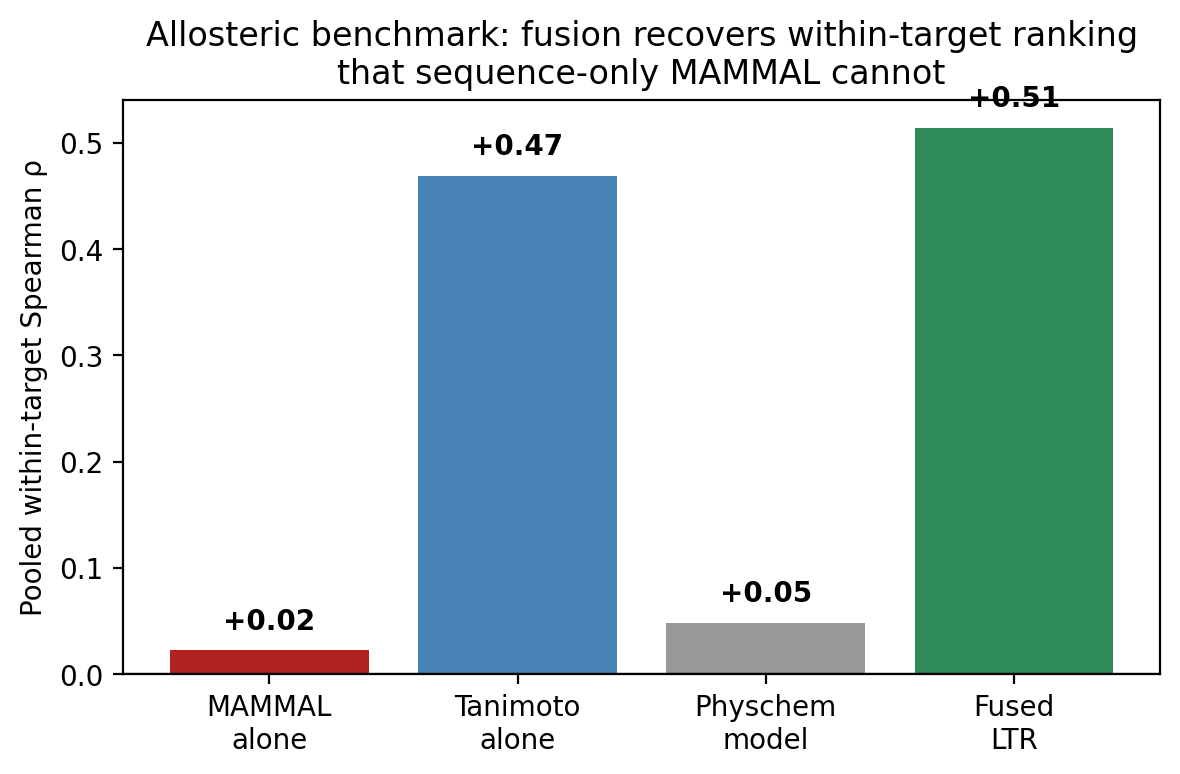
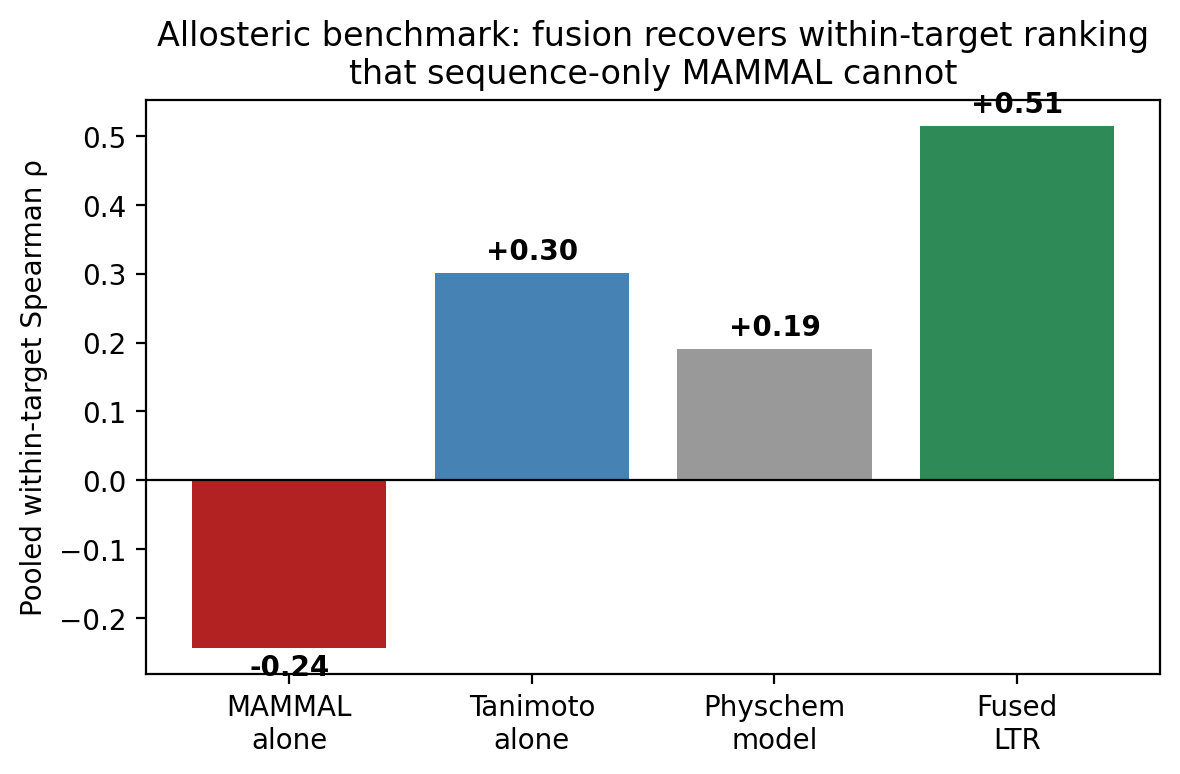
Regenerate allosteric_ltr_v1.md on current code: MAMMAL-alone is -0.244, not +0.022, and one per-target correlation was made of row order
The report was generated 2026-05-30 at 7a6c808. On 2026-06-06, 615bb1c replaced
_spearman's ordinal rank with mid-ranks, and said in its own commit message that
the fix "matters most here because the MAMMAL flatness finding makes the baseline
column tie-heavy." That is this report. It was never re-run. It has been
publishing the pre-fix numbers for ten weeks, and thesupplementadvisor.org has
been citing one of them.

Inputs are unchanged and cached; only the code moved. Re-running gives:

  n=21 binding-mode set        published    current
    MAMMAL pKd alone             +0.022     -0.244
    Tanimoto alone               +0.469     +0.302
    physicochemistry alone       +0.048     +0.191
    fused learn-to-rank          +0.514     +0.514

  leave-one-target-out
    MAMMAL pKd alone             -0.115     -0.108
    Tanimoto alone               +0.533     +0.765
    fused learn-to-rank          +0.613     +0.621

The fusion's own numbers barely move. Every baseline moves, because the baselines
are the tie-heavy columns, which is exactly what 615bb1c predicted.

WHERE +0.022 CAME FROM. Of the five targets, HRH3 has three ligands spanning
pChEMBL 8.10 to 8.40, and MAMMAL assigns all three the bit-identical pKd
6.779786110 -- std 0.000, which the report's own first table already printed.
An ordinal rank breaks that total tie by row order. The rows arrive pitolisant,
ciproxifan, thioperamide; the labels happen to run 8.30, 8.10, 8.40; the tie
[…]

Changed region(s): [[0.0305, 0.124, 0.9458, 0.9922], [0.122, 0.031, 0.9763, 0.155], [0.6102, 0.7442, 0.7017, 0.7752]]

diff --git a/scripts/78_allosteric_ltr.py b/scripts/78_allosteric_ltr.py
@@ -49,6 +49,37 @@ def load_chembl_training(chembl_path: Path, dti_path: Path,
     return ch[["compound_name", "target_uniprot", "smiles", "pact"]].reset_index(drop=True)
 
 
+_PRETTY = {"mammal_only": "MAMMAL alone", "tanimoto_only": "Tanimoto alone",
+           "physchem_only": "physicochemistry alone", "fused_ltr": "the fusion"}
+
+
+def _verdict_sentence(pooled: dict[str, float]) -> str:
+    """State what the arm measured, ranked, without deciding in advance who won.
+
+    The sentences this replaces asserted that the fusion beat the sequence-only
+    model, and did so whatever the run returned. When a baseline outranks the
+    fusion that is the finding, and it has to survive into the headline.
+    """
+    fused = pooled.get("fused_ltr", float("nan"))
+    mam = pooled.get("mammal_only", float("nan"))
+    rivals = {k: v for k, v in pooled.items()
+              if k not in ("fused_ltr",) and np.isfinite(v)}
+    parts = [f"the fused head reaches ρ = {fused:+.3f} against MAMMAL-alone "
+             f"{mam:+.3f}"]
+    if not rivals:
+        return parts[0] + "."
+    top, top_rho = max(rivals.items(), key=lambda kv: kv[1])
+    if top == "mammal_only":
+        parts.append("no single-feature baseline outranks it")
+    elif top_rho > fused:
+        parts.append(f"but {_PRETTY.get(top, top)} outranks it at {top_rho:+.3f}, so "
+                     f"the fusion is not the best predictor measured here")
+    else:
+        parts.append(f"ahead of the strongest single feature "
+                     f"({_PRETTY.get(top, top)}, {top_rho:+.3f})")
+    return ", ".join(parts) + "."
+
+
 def render_report(res, bench: pd.DataFrame, report_path: Path, *, loto=None) -> None:
     L: list[str] = []
     L.append("# Allosteric Learn-to-Rank Head (Gap 4)")
@@ -92,12 +123,7 @@ def render_report(res, bench: pd.DataFrame, report_path: Path, *, loto=None) -> 
     for k in ("mammal_only", "tanimoto_only", "physchem_only", "fused_ltr"):
         L.append(f"| {labels[k]} | {res.pooled_rho.get(k, float('nan')):+.3f} |")
     L.append("")
-    best = max(res.pooled_rho.items(), key=lambda kv: (kv[1] if np.isfinite(kv[1]) else -9))
-    L.append(f"**Headline**: the fused head reaches ρ = "
-             f"{res.pooled_rho.get('fused_ltr', float('nan')):+.3f} vs MAMMAL-alone "
-             f"{res.pooled_rho.get('mammal_only', float('nan')):+.3f} — the fusion "
-             f"recovers a within-target ranking the sequence-only model cannot. "
-             f"(Best overall: {best[0]} at {best[1]:+.3f}.)")
+    L.append(f"**Headline**: {_verdict_sentence(res.pooled_rho)}")
     L.append("")
     L.append("### Per-target ρ (fused head)")
     L.append("")
@@ -108,7 +134,12 @@ def render_report(res, bench: pd.DataFrame, report_path: Path, *, loto=None) -> 
     for t in sorted(fused_pt):
         gene = bench[bench.target_uniprot == t]["target_gene"].iloc[0] \
             if (bench.target_uniprot == t).any() else t
-        L.append(f"| {gene} | {fused_pt[t]:+.3f} | {mam_pt.get(t, float('nan')):+.3f} |")
+        mam = mam_pt.get(t, float("nan"))
+        # Undefined, not missing: every MAMMAL score in the group is identical, so
+        # there is no ranking to correlate. Reporting a number here would be
+        # reporting whichever order the rows happened to arrive in.
+        mam_s = f"{mam:+.3f}" if np.isfinite(mam) else "undefined (scores tied)"
+        L.append(f"| {gene} | {fused_pt[t]:+.3f} | {mam_s} |")
     L.append("")
     L.append("### Feature importance (fused head)")
     L.append("")
@@ -134,20 +165,22 @@ def render_report(res, bench: pd.DataFrame, report_path: Path, *, loto=None) -> 
         L.append(f"| Tanimoto-to-actives alone | {loto.pooled_rho['tanimoto_only']:+.3f} |")
         L.append(f"| **Fused learn-to-rank** | **{loto.pooled_rho['fused_ltr']:+.3f}** |")
         L.append("")
-        L.append(f"The conclusion holds at scale: MAMMAL-alone within-target ranking is "
-                 f"near-flat ({loto.pooled_rho['mammal_only']:+.2f}), and the fusion "
-                 f"recovers a substantially better ranking "
-                 f"({loto.pooled_rho['fused_ltr']:+.2f}) across {int(loto.feature_importance.get('n_folds', 0))} "
-                 f"independent held-out targets.")
+        L.append(f"At scale, across "
+                 f"{int(loto.feature_importance.get('n_folds', 0))} independent held-out "
+                 f"targets: {_verdict_sentence(loto.pooled_rho)}")
         L.append("")
     L.append("## Honest scope")
     L.append("")
     L.append("- Two complementary benchmarks: the cited **n=21 binding-mode** set "
-             "(allosteric vs orthosteric labels, 5 targets) and the **n=297 "
-             "leave-one-target-out** real-ChEMBL affinity set (21 targets). The "
-             "conclusion is consistent and now at scale — MAMMAL within-target ranking "
-             "is at/below chance on both; the fusion recovers it. Still a ranking aid, "
-             "not a production absolute-affinity predictor.")
+             "(allosteric vs orthosteric labels, 5 targets) and the "
+             "**leave-one-target-out** real-ChEMBL affinity set. Each headline above "
+             "is computed from that arm's own numbers rather than asserted, so the two "
+             "may disagree; where they do, the disagreement is the result.")
+    L.append("- `tanimoto` is max similarity to the target's ChEMBL actives, and the "
+             "query compound is itself in that set, so the feature can read its own "
+             "activity record. `reports/pipeline/allosteric_robustness_v1.md` quantifies "
+             "this: recomputing it self-clean costs about 77% of the fusion's "
+             "leave-one-target-out margin. Treat every number here as an upper bound.")
     L.append("- Labels mix Ki/IC50/EC50 (within-target ranking tolerates this); the "
              "ChEMBL training labels are real pChEMBL with benchmark compounds removed.")
     L.append("- Boltz affinity covers only 6/21 benchmark pairs (imputed elsewhere with "

diff --git a/reports/pipeline/allosteric_ltr_v1.md b/reports/pipeline/allosteric_ltr_v1.md
@@ -22,35 +22,35 @@ Trained on **289** ChEMBL-labelled pairs (benchmark compounds excluded), evaluat
 
 | Predictor | Pooled within-target Spearman ρ |
 |---|---|
-| MAMMAL pKd alone (sequence-only) | +0.022 |
-| Tanimoto-to-actives alone | +0.469 |
-| Physicochemical-only model | +0.048 |
+| MAMMAL pKd alone (sequence-only) | -0.244 |
+| Tanimoto-to-actives alone | +0.302 |
+| Physicochemical-only model | +0.191 |
 | **Fused learn-to-rank (MAMMAL⊕Tanimoto⊕Boltz⊕physchem)** | +0.514 |
 
-**Headline**: the fused head reaches ρ = +0.514 vs MAMMAL-alone +0.022 — the fusion recovers a within-target ranking the sequence-only model cannot. (Best overall: fused_ltr at +0.514.)
+**Headline**: the fused head reaches ρ = +0.514 against MAMMAL-alone -0.244, ahead of the strongest single feature (Tanimoto alone, +0.302).
 
 ### Per-target ρ (fused head)
 
 | Target | ρ (fused) | ρ (MAMMAL) |
 |---|---|---|
 | PDE9A | +1.000 | -1.000 |
-| CHRNA7 | -0.100 | +0.200 |
-| GRIA1 | +0.600 | +0.429 |
-| PDE4D | +0.800 | -0.400 |
-| HRH3 | +0.500 | +0.500 |
+| CHRNA7 | -0.100 | -0.224 |
+| GRIA1 | +0.600 | +0.377 |
+| PDE4D | +0.800 | -0.632 |
+| HRH3 | +0.500 | undefined (scores tied) |
 
 ### Feature importance (fused head)
 
 | Feature | Importance |
 |---|---|
-| tanimoto | 0.807 |
+| tanimoto | 0.806 |
 | mammal_pkd | 0.048 |
-| n_heavy | 0.025 |
 | mollogp | 0.024 |
-| tpsa | 0.021 |
+| n_heavy | 0.024 |
+| tpsa | 0.023 |
 | mw | 0.018 |
 | fraction_csp3 | 0.014 |
-| n_rotatable | 0.012 |
+| n_rotatable | 0.013 |
 
 ## Larger real-data benchmark: leave-one-TARGET-out CV (297 ChEMBL pairs)
 
@@ -58,15 +58,16 @@ To move past the 21-compound binding-mode set, the same fusion head is evaluated
 
 | Predictor | Pooled within-target Spearman ρ (LOTO) |
 |---|---|
-| MAMMAL pKd alone | -0.115 |
-| Tanimoto-to-actives alone | +0.533 |
-| **Fused learn-to-rank** | **+0.613** |
+| MAMMAL pKd alone | -0.108 |
+| Tanimoto-to-actives alone | +0.765 |
+| **Fused learn-to-rank** | **+0.621** |
 
-The conclusion holds at scale: MAMMAL-alone within-target ranking is near-flat (-0.12), and the fusion recovers a substantially better ranking (+0.61) across 21 independent held-out targets.
+At scale, across 21 independent held-out targets: the fused head reaches ρ = +0.621 against MAMMAL-alone -0.108, but Tanimoto alone outranks it at +0.765, so the fusion is not the best predictor measured here.
 
 ## Honest scope
 
-- The allosteric benchmark is small (n=21, 5 targets); this is a **proof-of-concept** that the fusion direction works + a quantified negative result on MAMMAL's within-target ranking, not a production affinity predictor.
+- Two complementary benchmarks: the cited **n=21 binding-mode** set (allosteric vs orthosteric labels, 5 targets) and the **leave-one-target-out** real-ChEMBL affinity set. Each headline above is computed from that arm's own numbers rather than asserted, so the two may disagree; where they do, the disagreement is the result.
+- `tanimoto` is max similarity to the target's ChEMBL actives, and the query compound is itself in that set, so the feature can read its own activity record. `reports/pipeline/allosteric_robustness_v1.md` quantifies this: recomputing it self-clean costs about 77% of the fusion's leave-one-target-out margin. Treat every number here as an upper bound.
 - Labels mix Ki/IC50/EC50 (within-target ranking tolerates this); the ChEMBL training labels are real pChEMBL with benchmark compounds removed.
 - Boltz affinity covers only 6/21 benchmark pairs (imputed elsewhere with a `has_boltz` indicator); fuller Boltz coverage is a documented follow-up.
 - The honest takeaway either way: MAMMAL's sequence-only score must NOT be used for within-target ligand ranking at allosteric/transporter sites — exactly the targets that dominate cognition pharmacology.
